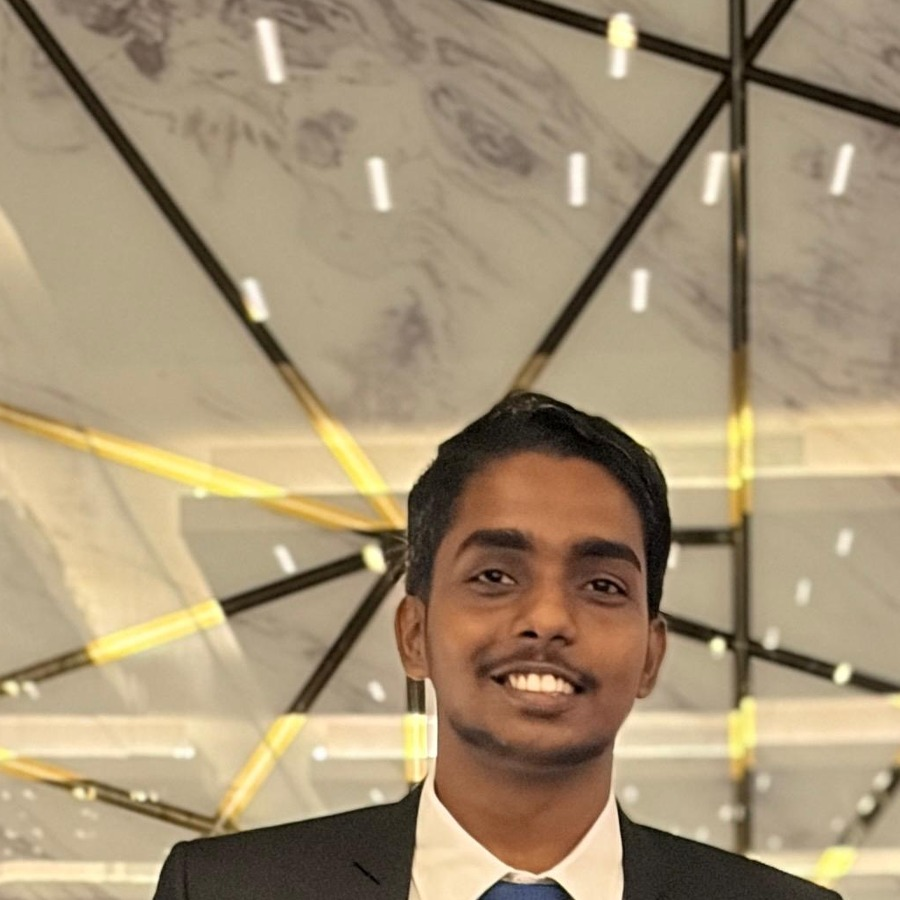
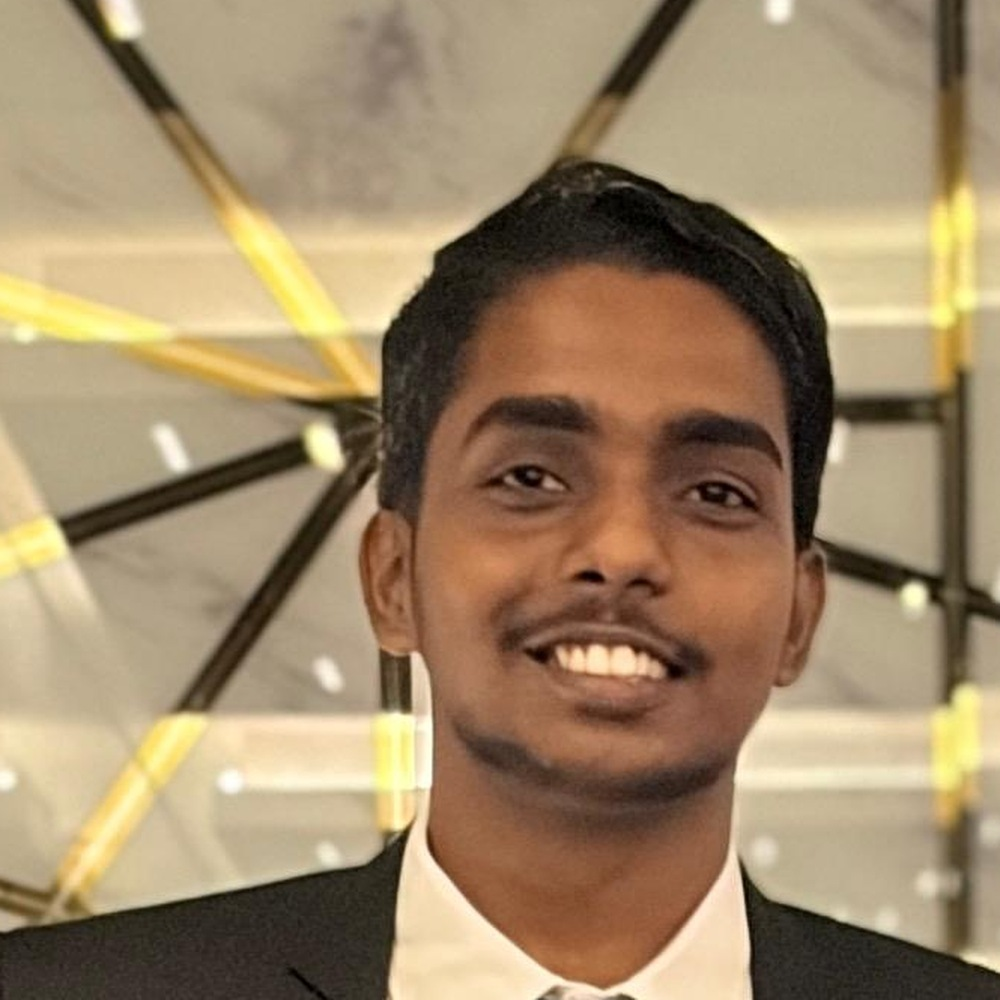
Improve desktop hero portrait framing and scale.
Use a tighter circular headshot, enlarge it on desktop, and center it with the copy instead of parking a small circle far right.

diff --git a/src/components/Hero.tsx b/src/components/Hero.tsx
@@ -6,11 +6,11 @@ export function Hero() {
   return (
     <section
       id="top"
-      className="relative isolate flex min-h-[100svh] items-end overflow-hidden pb-14 pt-24 sm:pb-20 sm:pt-28"
+      className="relative isolate flex min-h-[100svh] items-center overflow-hidden pb-16 pt-24 sm:pb-20 sm:pt-28"
     >
       <SignalField />
 
-      <div className="section-pad relative z-10 grid w-full items-end gap-10 lg:grid-cols-[minmax(0,1.2fr)_auto] lg:gap-16">
+      <div className="section-pad relative z-10 grid w-full items-center gap-12 lg:grid-cols-[minmax(0,1fr)_340px] lg:gap-12 xl:grid-cols-[minmax(0,1fr)_380px] xl:gap-16">
         <div>
           <motion.p
             className="font-display mb-5 text-[clamp(2.5rem,7.5vw,4.75rem)] leading-[1.05] text-ink text-balance"
@@ -41,6 +41,9 @@ export function Hero() {
               production implementation — with Forward Deployed Engineering
               training for client-facing delivery.
             </p>
+            <p className="pt-1 text-xs tracking-[0.12em] text-ink-soft uppercase">
+              Ariyalai, Jaffna · Wellawatte, Colombo
+            </p>
           </motion.div>
 
           <motion.div
@@ -65,27 +68,22 @@ export function Hero() {
         </div>
 
         <motion.div
-          className="relative mx-auto flex w-full max-w-[220px] flex-col items-center sm:max-w-[240px] lg:mx-0 lg:mb-2 lg:justify-self-end"
+          className="relative mx-auto w-[220px] sm:w-[260px] lg:mx-0 lg:w-full"
           initial={{ opacity: 0, scale: 0.94 }}
           animate={{ opacity: 1, scale: 1 }}
           transition={{ duration: 0.85, delay: 0.16, ease: easeOut }}
         >
-          <div className="relative aspect-square w-full overflow-hidden rounded-full bg-mist shadow-[0_0_0_1px_rgba(10,31,46,0.12)]">
+          <div className="relative aspect-square w-full overflow-hidden rounded-full bg-mist ring-1 ring-ink/15">
             <img
               src={`${import.meta.env.BASE_URL}portrait.jpg`}
               alt="Kanistan Raseswaran"
-              width={900}
-              height={900}
-              className="h-full w-full scale-[1.08] object-cover object-[50%_28%]"
+              width={1000}
+              height={1000}
+              className="h-full w-full scale-110 object-cover object-center"
               decoding="async"
               fetchPriority="high"
             />
           </div>
-          <p className="mt-4 text-center text-xs tracking-[0.12em] text-ink-soft uppercase">
-            Ariyalai, Jaffna
-            <br />
-            Wellawatte, Colombo
-          </p>
         </motion.div>
       </div>
     </section>
